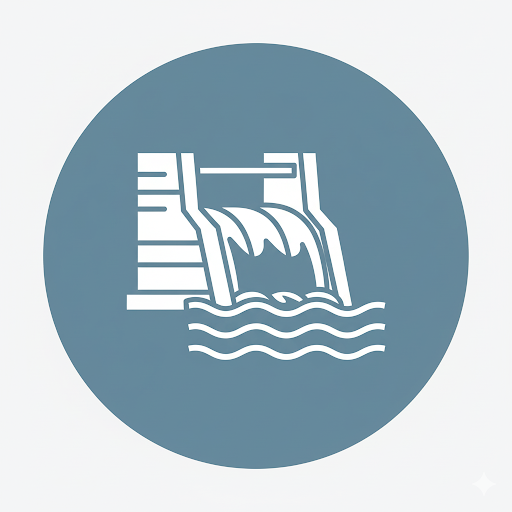
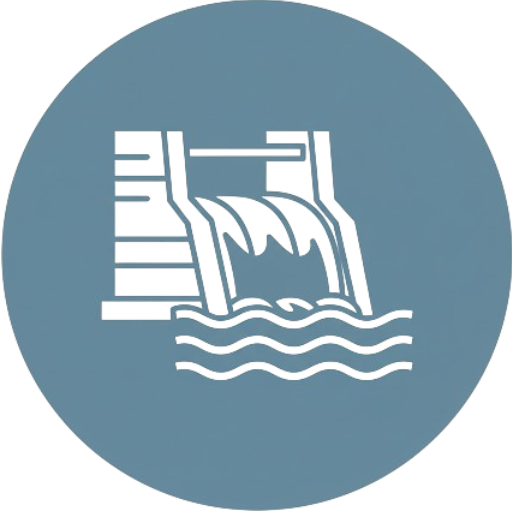
ikon size changes

diff --git a/index.html b/index.html
@@ -522,8 +522,8 @@
             const servicesGrid = document.getElementById('services-grid');
             servicesGrid.innerHTML = siteContent.services.map(service => `
                 <div class="bg-white p-6 rounded-lg shadow-lg text-center transform hover:-translate-y-2 transition duration-300">
-                    <div class="bg-blue-100 w-16 h-16 rounded-full flex items-center justify-center mx-auto mb-4">
-                        <img src="${service.icon}" alt="${service.title} icon" class="w-8 h-8 object-contain">
+                    <div class="w-16 h-16 flex items-center justify-center mx-auto mb-4">
+                        <img src="${service.icon}" alt="${service.title} icon" class="w-full h-full object-cover">
                     </div>
                     <h3 class="text-xl font-bold mb-2">${service.title}</h3>
                     <p class="text-gray-600">${service.description}</p>
